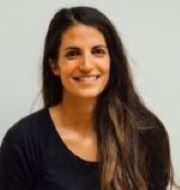
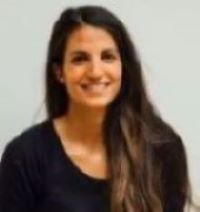
added text to the bouquet images in the body section

diff --git a/index.html b/index.html
@@ -24,12 +24,11 @@
           <span class="icon-bar"></span>
           <span class="icon-bar"></span>
           <span class="icon-bar"></span>
-          <span class="icon-bar"></span> 
-              
+          <span class="icon-bar"></span>       
       </button>
       </div>
 
-      <div class="collapse navbar-collapse" id="myNavbar">
+  <div class="collapse navbar-collapse" id="myNavbar">
         <ul class="nav navbar-nav">
           <li class="active"><a href="index.html">Home</a></li>
           <li class="active"><a href="flowers.html">Flowers</a></li>
@@ -41,13 +40,13 @@
           <li class="active"><a href="cart.html">
             <span class="glyphicon glyphicon-shopping-cart"></span> Cart
             <span id="cart-count" class="badge">0</span></a></li>
-        </ul>
+          </ul>
+        </div>
       </div>
-    </div>
   </nav>
 
 
-<div class="slideshow-container">
+  <div class="slideshow-container">
   <div class="slide">
     <img src="Images/red-roses1.jpg" alt="Red Roses">
   </div>
@@ -57,41 +56,40 @@
   <div class="slide">
     <img src="Images/new1.jpg" alt="mixed">
   </div>
-</div>
-<div class="dot-container">
+    </div>
+    <div class="dot-container">
     <span class="dot"></span>
     <span class="dot"></span>
     <span class="dot"></span>
-  </div>
-</div>
+      </div>
+    </div>
 
-<div class="container">    
-  <div class="row">
+    <div class="container">    
+     <div class="row">
     <div class="col-sm-4">
       <div class="panel panel-primary">
-        <div class="panel-heading">Pastel bouquet</div>
+        
+        <div class="panel-heading">Pastel bouquet-On Special</div>
         <div class="panel-body"><img src="Images/tulips.jpg" class="img-responsive"  alt="Image"></div>
         <div class="panel-footer">Pink Tulips Buy Now $35.99 </div>
       </div>
     </div>
     <div class="col-sm-4"> 
       <div class="panel panel-danger">
-        <div class="panel-heading">Country Garden Bouquet </div>
+        <div class="panel-heading">Country Garden Bouquet-Best Buy </div>
         <div class="panel-body"><img src="Images/roses2.jpg" class="img-responsive" alt="Image"></div>
         <div class="panel-footer">Classic Flowers Buy Now $55.99 </div>
       </div>
     </div>
     <div class="col-sm-4"> 
       <div class="panel panel-success">
-        <div class="panel-heading"> Aqua Bouquet</div>
+        <div class="panel-heading"> Aqua Bouquet- Weekly Discount</div>
         <div class="panel-body"><img src="Images/ebno5e2p4y.jpg" class="img-responsive" alt="Image"></div>
         <div class="panel-footer">Seasonal Flowers Buy NOw $43.90</div>
       </div>
     </div>
   </div>
 </div><br>
-
-
 
 <div class="container">
   <div class="row">
@@ -119,10 +117,12 @@
       <div class="panel-body">
         <div class="media">
           <div class="media-left">
-            <img src="Images/gomes.jpg" class="media-object" alt="flora">
+            <img src="Images/Gomes.jpg" class="media-object" alt="flora">
           </div>
           <div class="media-body">
-            <div class="passion">As a florist, my passion lies in creating beautiful floral arrangements that evoke emotions and bring joy to people's lives. I believe that flowers have the power to convey messages, celebrate special occasions, and brighten up any space. Whether it's a simple bouquet or an elaborate centerpiece, I pour my heart and soul into every creation, ensuring that each arrangement is unique and memorable. From weddings to corporate events, I specialize in designing arrangements that reflect the personality and style of my clients, making their special moments even more memorable.<br> -Gomes,The Florist</p>
+            <h4 class="media-heading">Gomes,The Florist</h4>
+            
+              <p>As a florist, my passion lies in creating beautiful floral arrangements that evoke emotions and bring joy to people's lives. Whether it's a simple bouquet or an elaborate centerpiece, I pour my heart and soul into every creation, ensuring that each arrangement is unique and memorable. From weddings to corporate events, I specialize in designing arrangements that reflect the personality and style of my clients, making their special moments even more memorable.</p>
           </div>
         </div>
       </div>
@@ -150,9 +150,9 @@
       </p>
     </div>
     <div class="social icons">
-      <a href="https://www.facebook.com">facebook<i class="fab fa-facebook"></i></a>
-      <a href="https://www.twitter.com">twitter<i class="fab fa-twitter"></i></a>
-      <a href="https://www.instagram.com">instagram<i class="fab fa-instagram"></i></a>
+      <a href="https://www.facebook.com"><i class="fab fa-facebook"></i></a>
+      <a href="https://www.twitter.com"><i class="fab fa-twitter"></i></a>
+      <a href="https://www.instagram.com"><i class="fab fa-instagram"></i></a>
     </div>
     <div class="container">
       <p>Contact Details:</p>

diff --git a/signin.html b/signin.html
@@ -51,8 +51,6 @@
    </nav>
       <br>
       <div class="row">
-     
-      
       <form id="signinForm" class="form-inline">
         <input type="text" id="username" class="form-control" placeholder="Username">
         <input type="password" id="password" class="form-control" placeholder="Password">
@@ -93,9 +91,9 @@
   <script src="https://code.jquery.com/jquery-3.6.0.min.js"></script>
   <script src="script.js"></script>
 
-<script src="signin.js"></script>
+  <script src="signin.js"></script>
 
        
-  </body>
+</body>
  </html>
   
